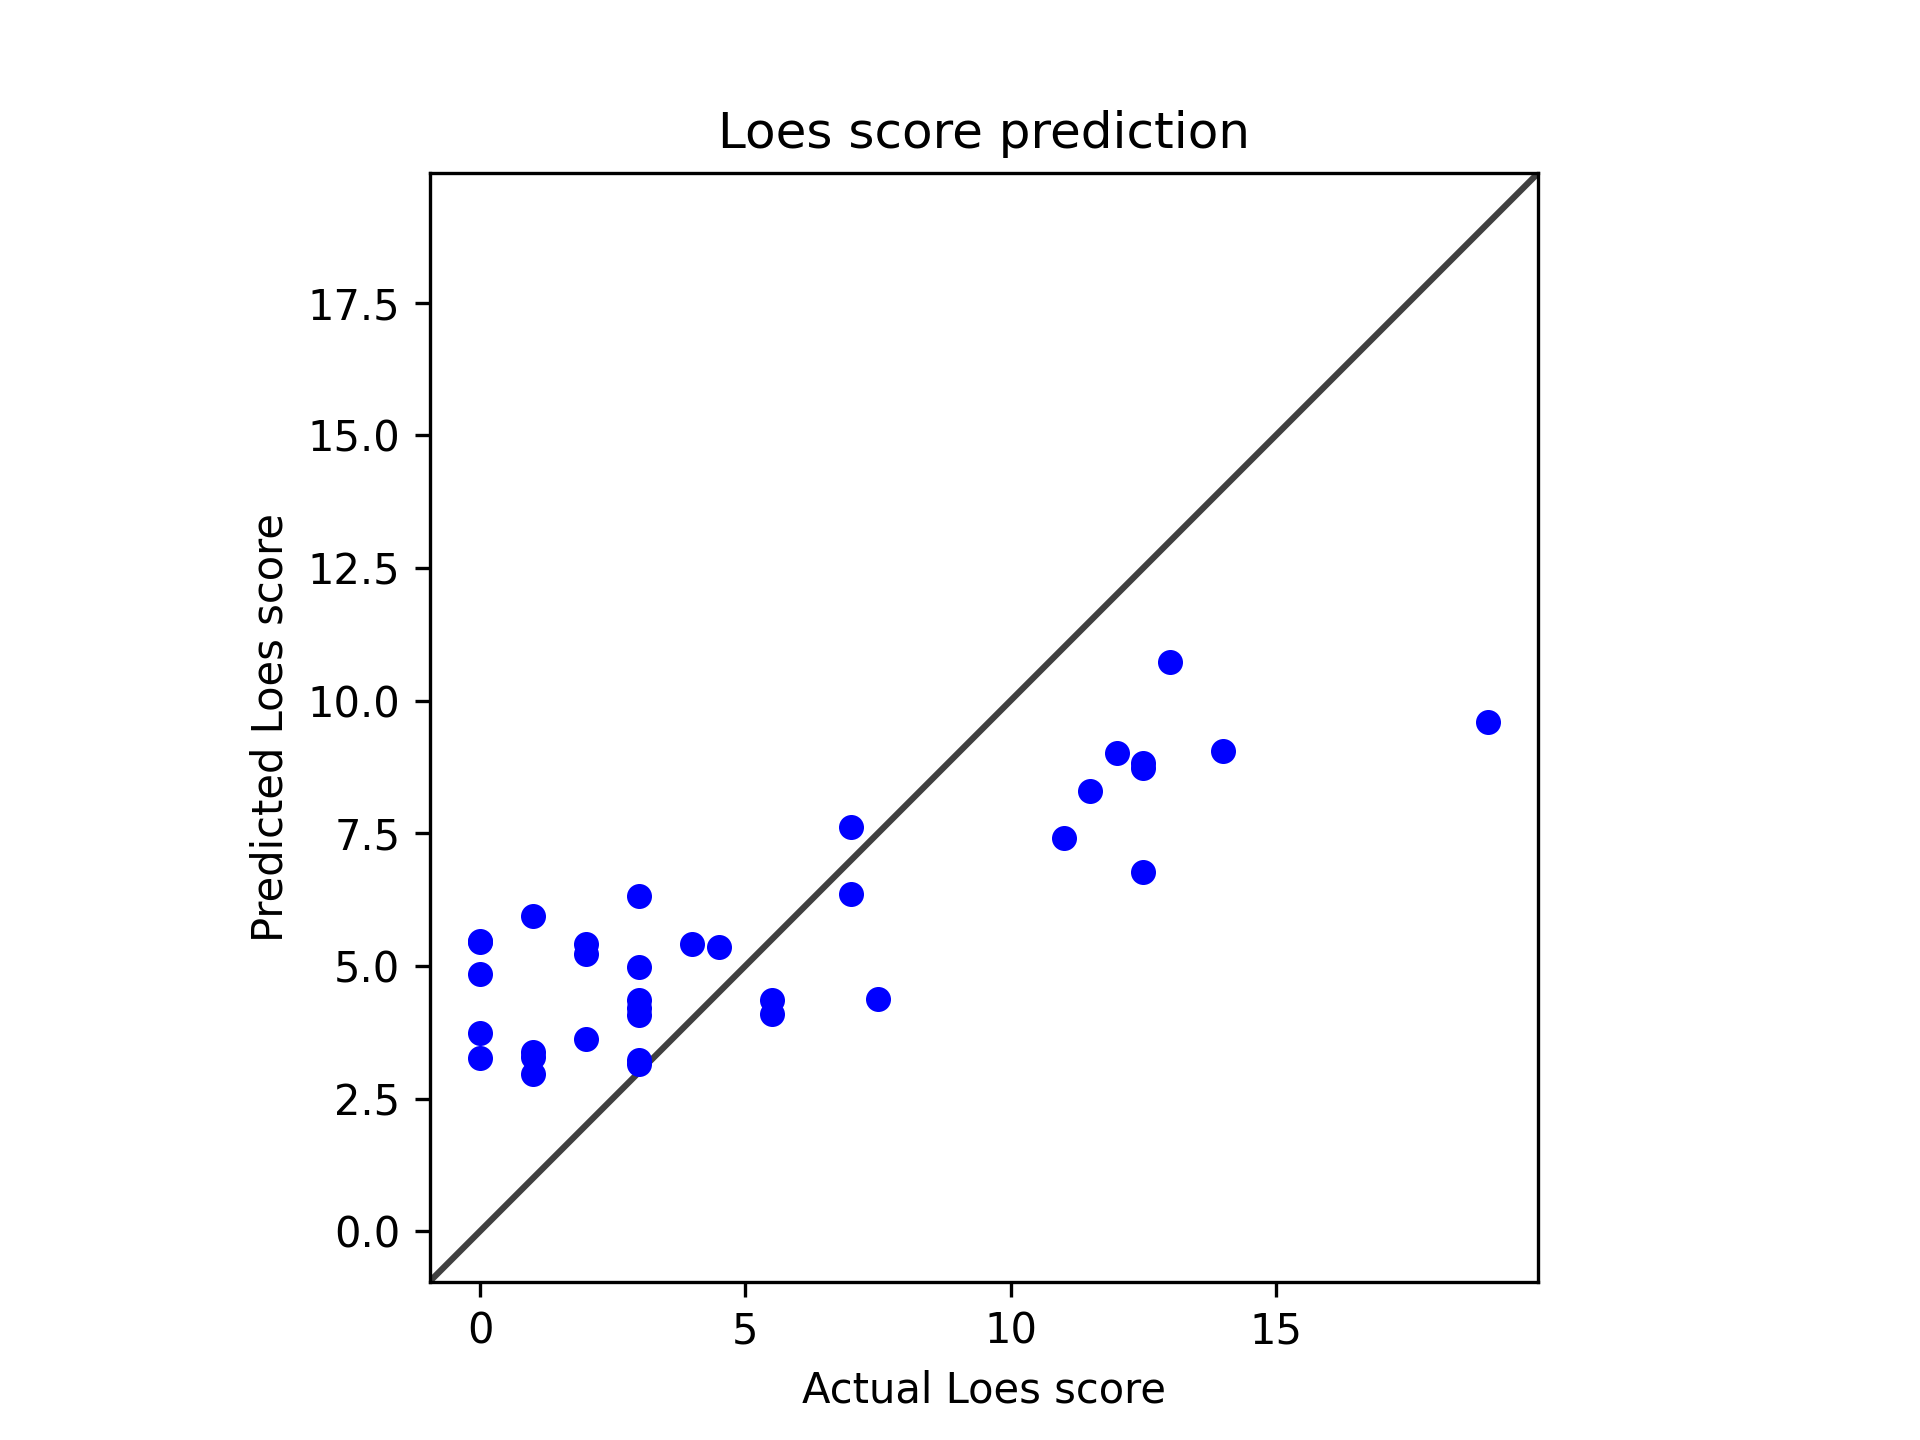
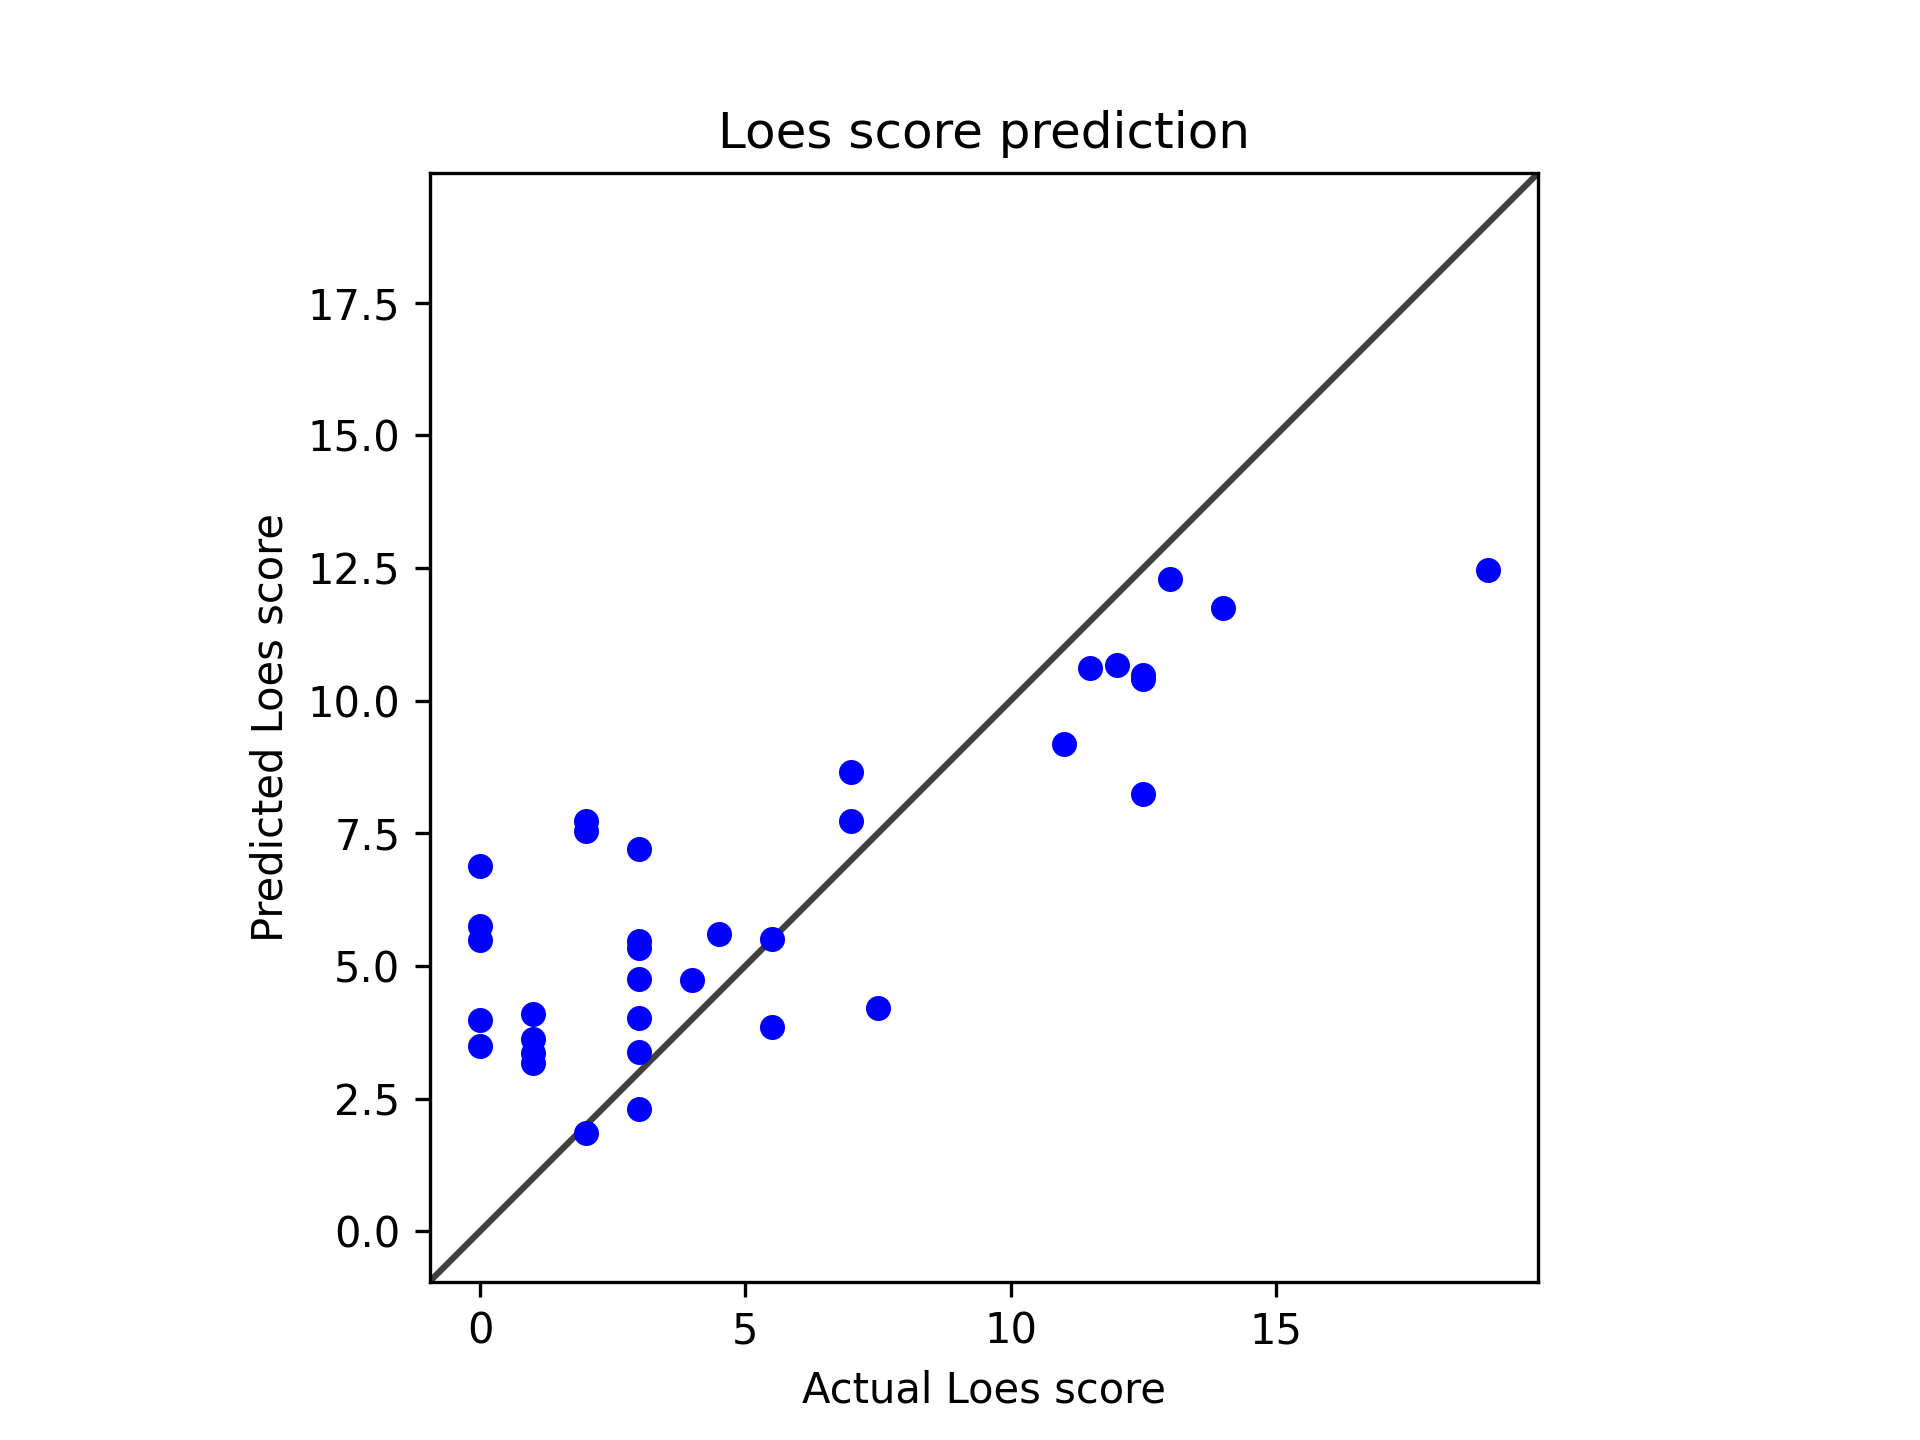
Use weighted loss.

diff --git a/src/dcan/training/training.py b/src/dcan/training/training.py
@@ -59,6 +59,7 @@ class Config:
         self.parser.add_argument('-k', type=int, default=0, help='Index for 5-fold validation')
         self.parser.add_argument('--folder', help='Folder where MRIs are stored')
         self.parser.add_argument('--csv-output-file', help="CSV output file.")
+        self.parser.add_argument('--use-weighted-loss', action='store_true')
 
     def parse_args(self, sys_argv: list[str]) -> argparse.Namespace:
         return self.parser.parse_args(sys_argv)
@@ -116,14 +117,37 @@ class ModelHandler:
 
 import torch
 
+def count_items(input_list):
+    counts = {}
+    for item in input_list:
+        if item in counts:
+            counts[item] += 1
+        else:
+            counts[item] = 1
+    return counts
+
+def normalize_list(data):
+    min_val = min(data)
+    max_val = max(data)
+    normalized_data = [(x - min_val) / (max_val - min_val) for x in data]
+    return normalized_data
+
 
 # Training/Validation Loop Handler
 class TrainingLoop:
-    def __init__(self, model_handler, optimizer, device):
+    def __init__(self, model_handler, optimizer, device, df, config):
         self.model_handler = model_handler
         self.optimizer = optimizer
         self.device = device
         self.total_samples = 0
+        self.df = df
+        loes_scores = list(df['loes-score'])
+        item_counts = count_items(loes_scores)
+        loes_scores_size = len(loes_scores)
+        weights = [1.0 / (item_counts[loes_score] / loes_scores_size) for loes_score in loes_scores]
+        normalized_weights = normalize_list(weights)
+        self.df['weight'] = normalized_weights
+        self.config = config
 
     def train_epoch(self, epoch, train_dl):
         self.model_handler.model.train()
@@ -143,11 +167,23 @@ class TrainingLoop:
             for batch_ndx, batch_tup in enumerateWithEstimate(val_dl, f"E{epoch} Validation", start_ndx=val_dl.num_workers):
                 self._compute_batch_loss(batch_ndx, batch_tup, val_dl.batch_size, val_metrics_g)
         return val_metrics_g.to('cpu')
+    
+    def weighted_mse_loss(self, input, target, weight):
+        return (weight * (input - target) ** 2)
 
     def _compute_batch_loss(self, batch_ndx, batch_tup, batch_size, metrics_g):
-        input_t, label_t, _, _ = batch_tup
+        input_t, label_t, subjects, sessions = batch_tup
         input_g = input_t.to(self.device, non_blocking=True)
         label_g = label_t.to(self.device, non_blocking=True)
+
+        n = len(subjects)
+        weights = []
+        for i in range(n):
+            subject = subjects[i]
+            session = sessions[i]
+            weight = \
+                self.df.loc[((self.df['anonymized_subject_id'] == subject) & (self.df['anonymized_session_id'] == session)), 'weight'].iloc[0]
+            weights.append(weight)
 
         outputs_g = self.model_handler.model(input_g)
 
@@ -162,9 +198,12 @@ class TrainingLoop:
         log.debug(f"outputs_g shape: {outputs_g.shape}")  # Should be [batch_size]
         log.debug(f"label_g shape: {label_g.shape}")  # Should be [batch_size]
 
-        loss_func = nn.MSELoss(reduction='none')
         # When using Regressor for the model, it is important that we use nn.MSELoss for regression.
-        loss_g = loss_func(outputs_g, label_g)
+        if self.config.use_weighted_loss:
+            loss_g = self.weighted_mse_loss(outputs_g, label_g, weight)
+        else:
+            loss_func = nn.MSELoss(reduction='none')
+            loss_g = loss_func(outputs_g, label_g)
 
         start_ndx = batch_ndx * batch_size
         end_ndx = start_ndx + label_t.size(0)
@@ -252,7 +291,7 @@ class LoesScoringTrainingApp:
         train_dl = self.data_handler.init_dl(self.folder, train_subjects)
         val_dl = self.data_handler.init_dl(self.folder, val_subjects, is_val_set=True)
 
-        loop_handler = TrainingLoop(self.model_handler, self.optimizer, self.device)
+        loop_handler = TrainingLoop(self.model_handler, self.optimizer, self.device, self.df, self.config)
         
         for epoch in range(1, self.config.epochs + 1):
             log.info(f"Epoch {epoch}/{self.config.epochs}")
